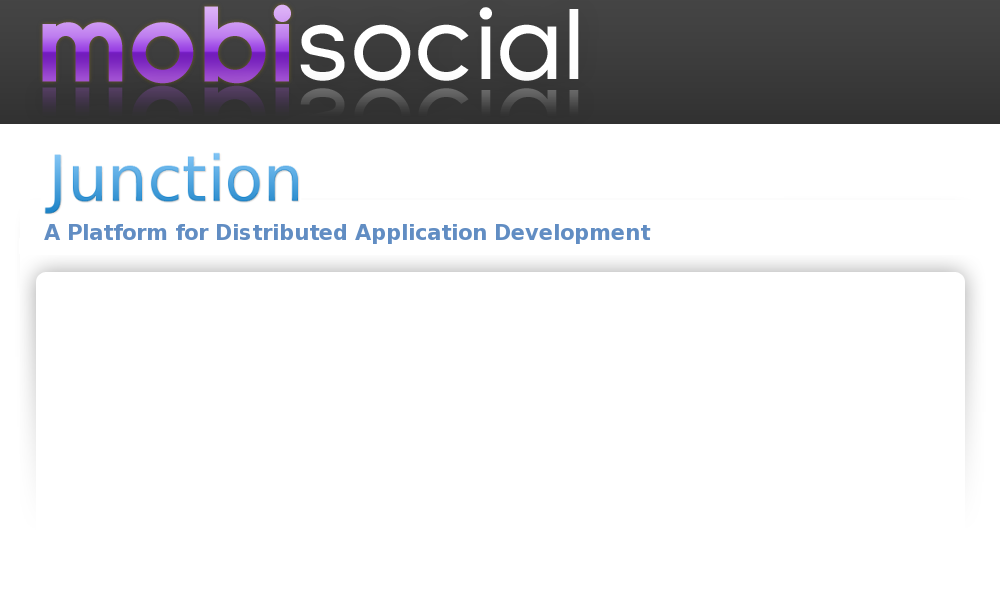
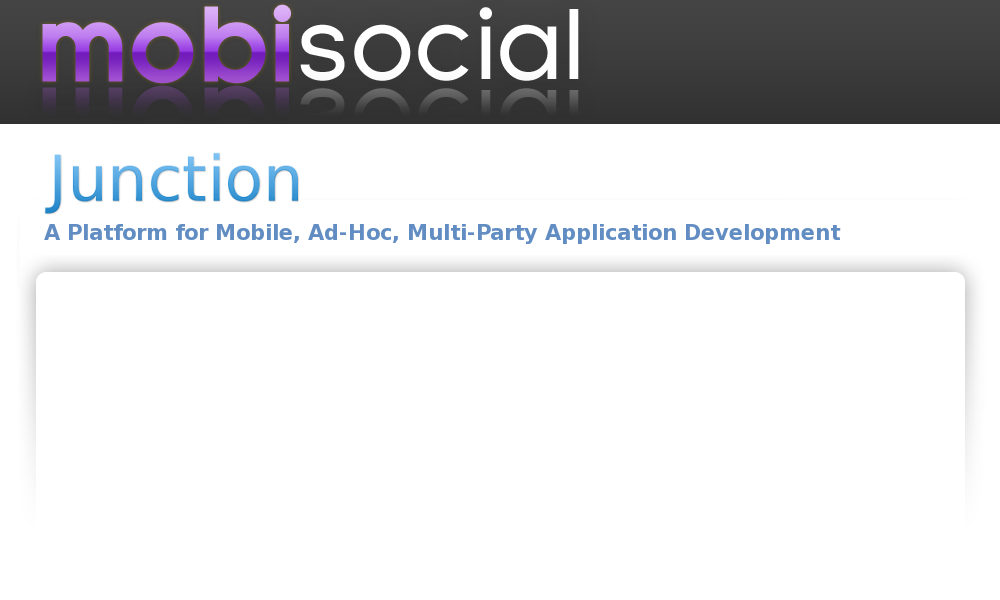
Add new tagline

Changed region(s): [[0.217, 0.36, 0.837, 0.42]]

diff --git a/css/main.css b/css/main.css
@@ -41,7 +41,7 @@ img{
 
 #buttonTry,#buttonLearn{ 
     position: absolute;
-    top: -50px;
+    top: -100px;
 }
 
 #buttonTry{ 
@@ -49,7 +49,7 @@ img{
 }
 
 #buttonLearn{ 
-    left: 770px;
+    left: 780px;
 }
 
 
